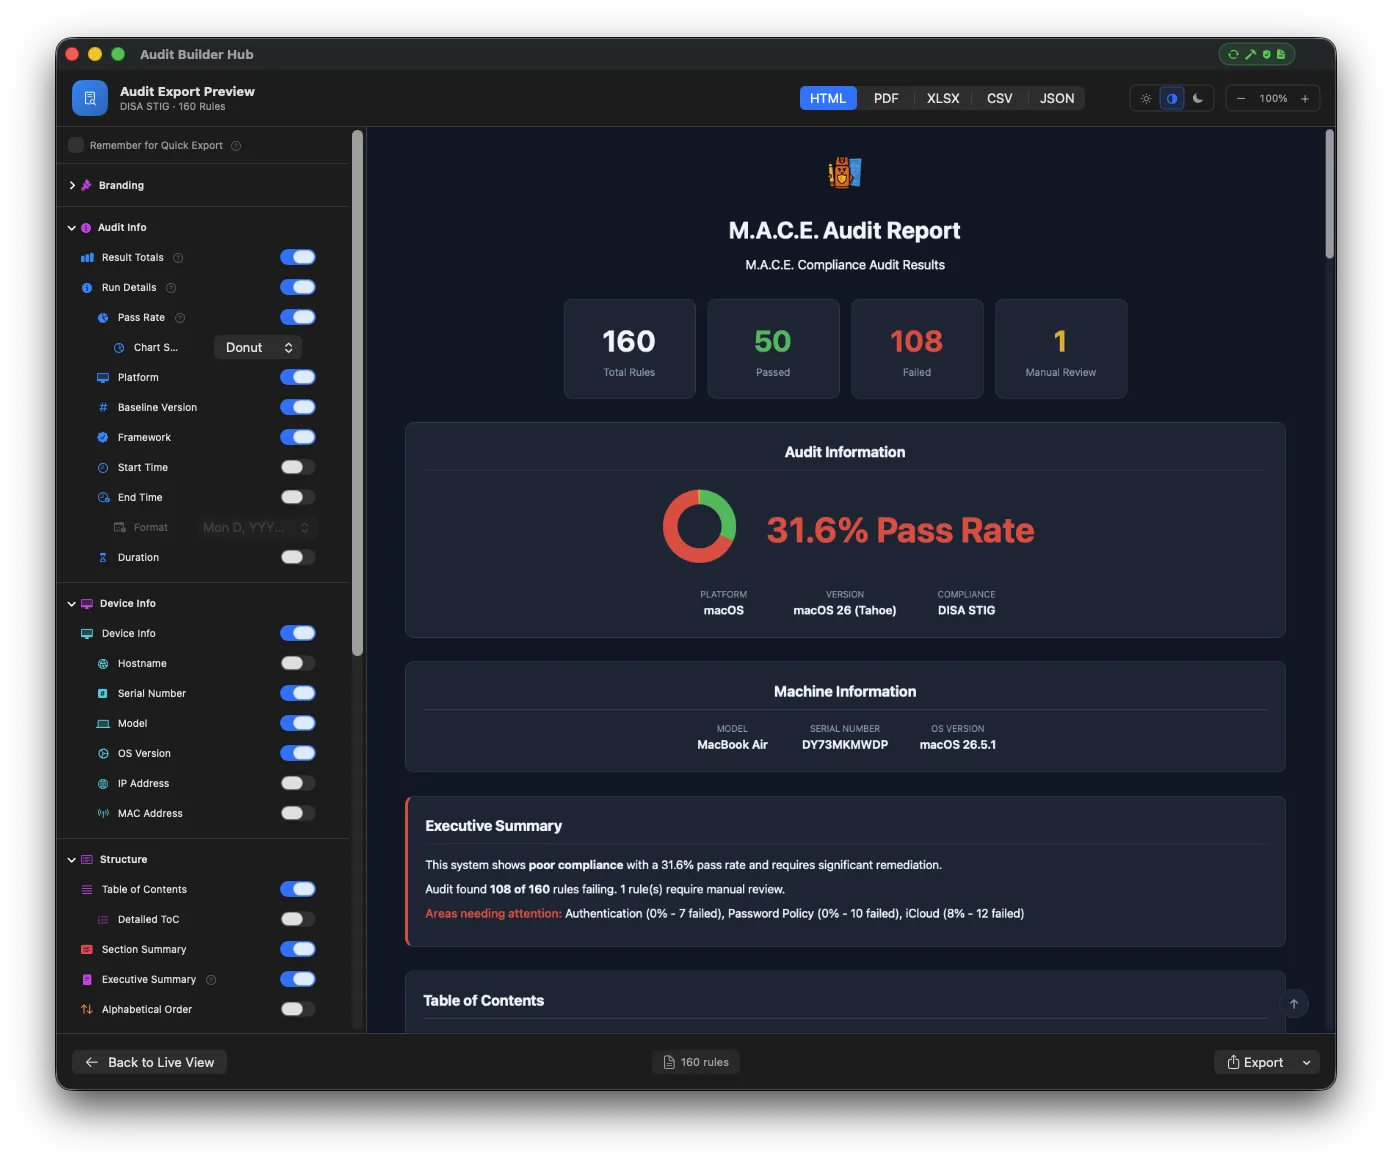
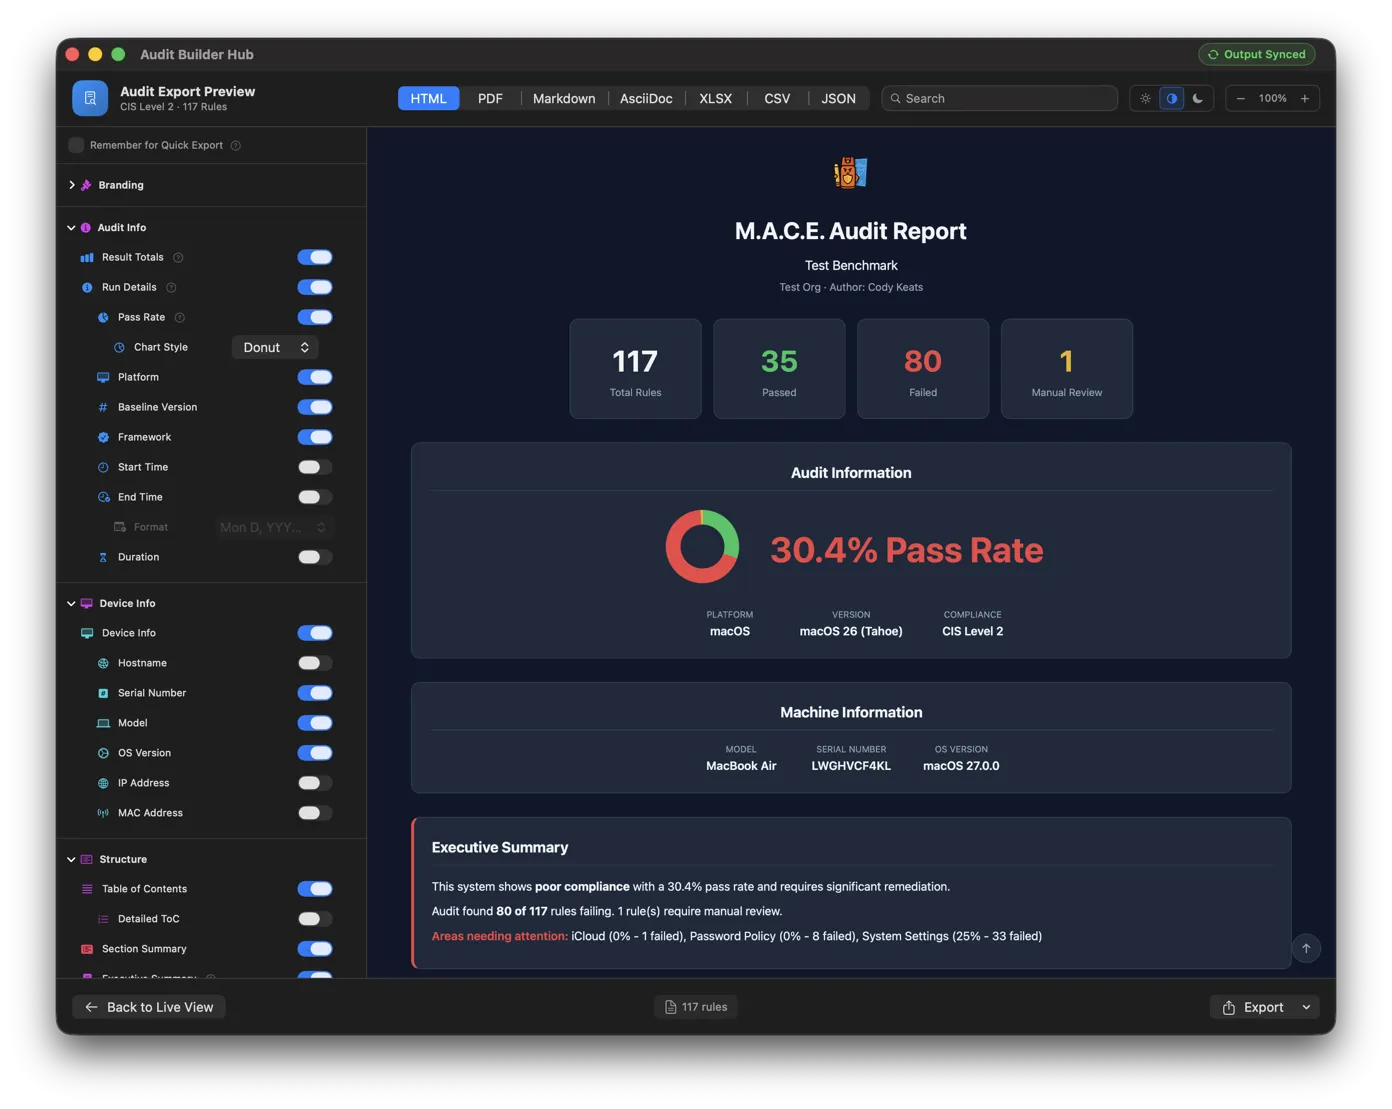
Updates

diff --git a/README.md b/README.md
@@ -361,7 +361,7 @@ Click any preview below to download the sample file and open it locally. GitHub 
     <img alt="MACE Audit Export Preview" src=".github/images/audit-export-preview-light.webp" width="700">
   </picture>
 </p>
-<p align="center"><em>Live export preview — switch formats, theme, and content options in real time</em></p>
+<p align="center"><em>Live export preview — switch formats, search the report, and change theme and content options in real time</em></p>
 
 #### Audit Engines
 - **M.A.C.E. Audit Engine:** Native Swift engine with advanced filtering and detailed result analysis
@@ -384,12 +384,14 @@ Click any preview below to download the sample file and open it locally. GitHub 
 - Execution time per rule
 
 #### Export Formats
-A live **Export Preview** renders your report exactly as it will export and updates in real time as you change options.
+A live **Export Preview** renders your report exactly as it will export and updates in real time as you change options. Search the rendered report from the preview toolbar to jump straight to any rule or section.
 
 | Format | Description |
 |--------|-------------|
 | **PDF** | Professional documents with headers, summaries, and details |
 | **HTML** | Interactive web-viewable reports with charts and navigation |
+| **Markdown** | Portable plain-text format for version control and wiki integration |
+| **AsciiDoc** | Structured authoring format for technical documentation and publishing toolchains |
 | **CSV** | Spreadsheet-friendly with summary statistics and device info |
 | **Excel (XLSX)** | Formatted workbook with color coding and summary sheet |
 | **JSON** | Structured data for automation, dashboards, and other tools |
